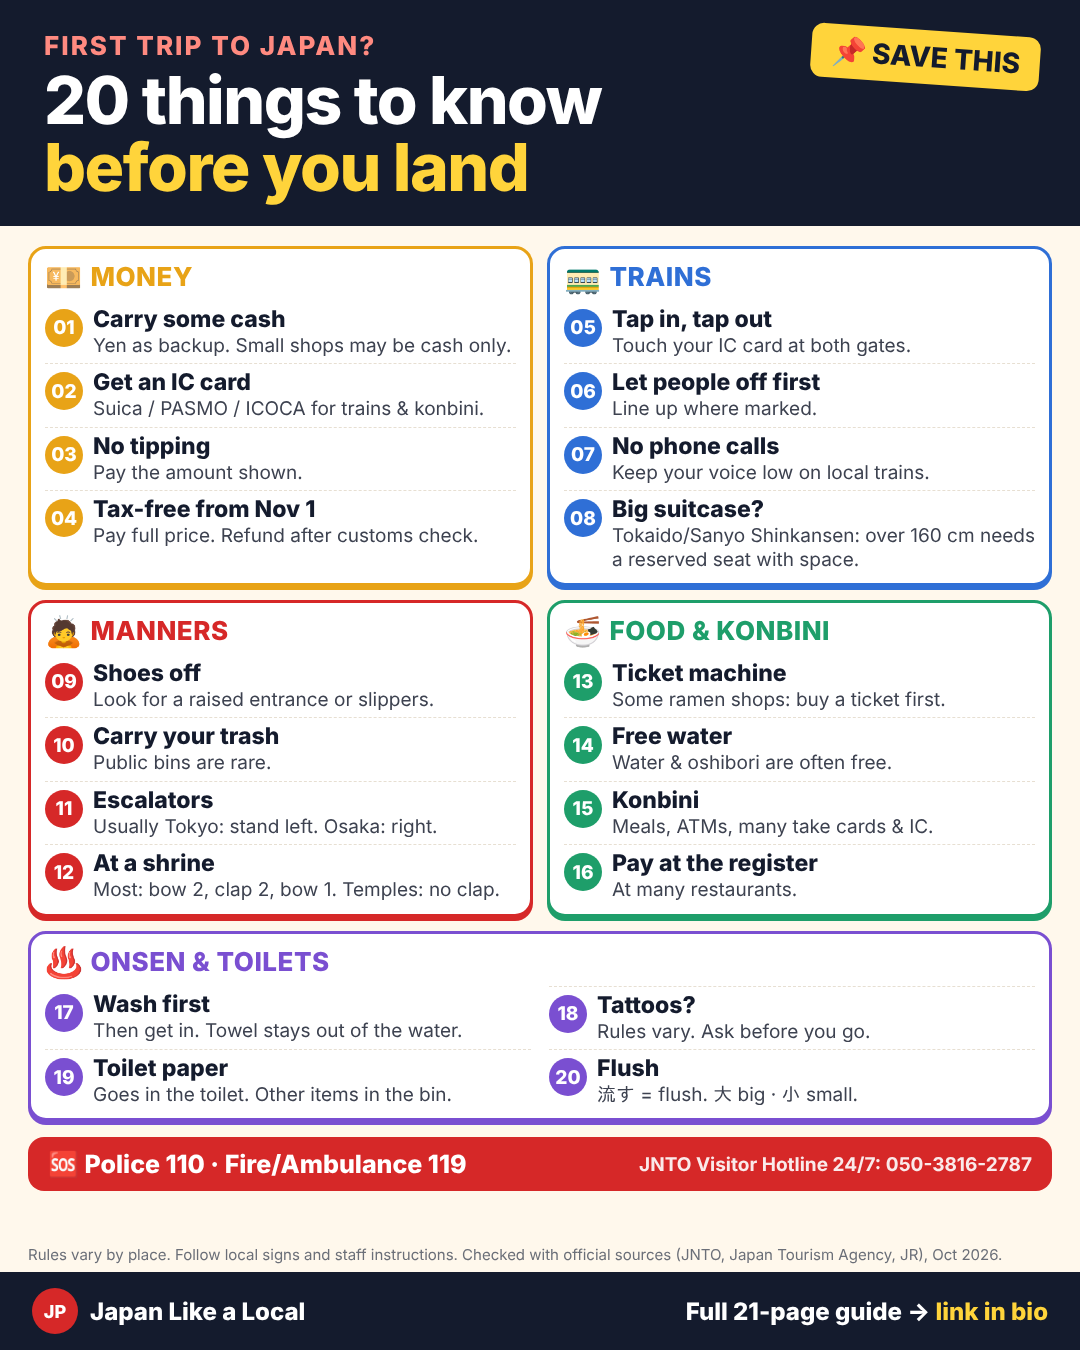
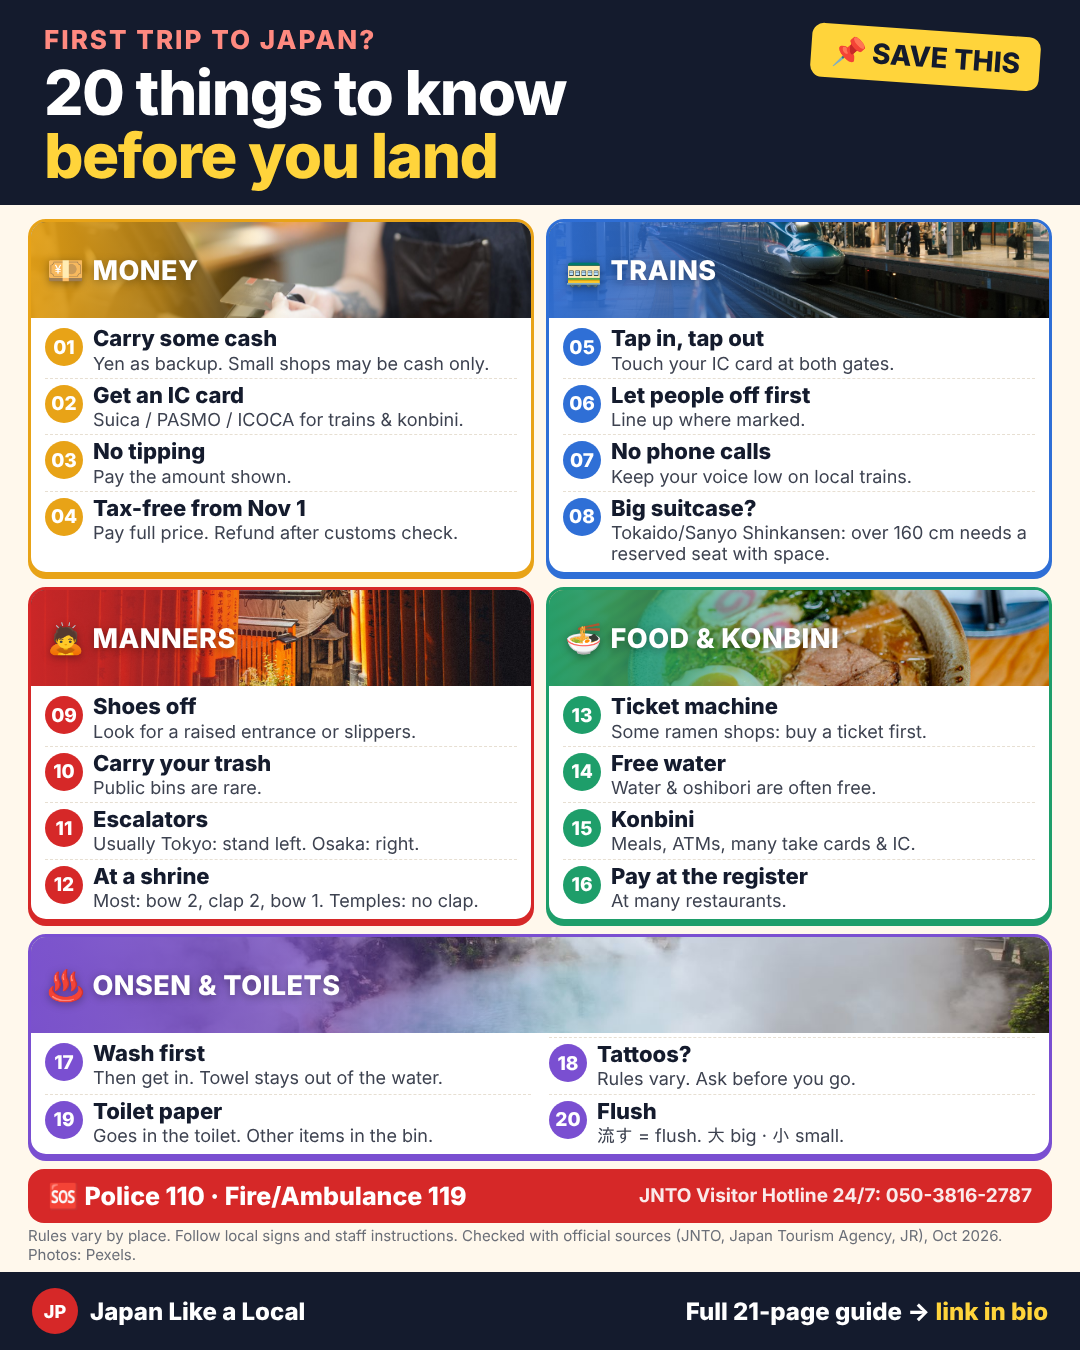
Cheat sheet: Pexels photo headers per section
Claude-Session: https://claude.ai/code/session_01TjagRrtcak9M1F67RG8mqZ

diff --git a/tools/build_cheatsheet.py b/tools/build_cheatsheet.py
@@ -4,40 +4,41 @@ from playwright.sync_api import sync_playwright
 R=pathlib.Path(__file__).resolve().parent.parent
 F=(R/'tools/fonts').as_uri()
 SECTIONS=[
- ('MONEY','#E8A317','💴',[('Carry some cash','Yen as backup. Small shops may be cash only.'),('Get an IC card','Suica / PASMO / ICOCA for trains & konbini.'),('No tipping','Pay the amount shown.'),('Tax-free from Nov 1','Pay full price. Refund after customs check.')]),
- ('TRAINS','#2F6FD6','🚃',[('Tap in, tap out','Touch your IC card at both gates.'),('Let people off first','Line up where marked.'),('No phone calls','Keep your voice low on local trains.'),('Big suitcase?','Tokaido/Sanyo Shinkansen: over 160 cm needs a reserved seat with space.')]),
- ('MANNERS','#D62828','🙇',[('Shoes off','Look for a raised entrance or slippers.'),('Carry your trash','Public bins are rare.'),('Escalators','Usually Tokyo: stand left. Osaka: right.'),('At a shrine','Most: bow 2, clap 2, bow 1. Temples: no clap.')]),
- ('FOOD & KONBINI','#1E9E6A','🍜',[('Ticket machine','Some ramen shops: buy a ticket first.'),('Free water','Water & oshibori are often free.'),('Konbini','Meals, ATMs, many take cards & IC.'),('Pay at the register','At many restaurants.')]),
- ('ONSEN & TOILETS','#7A4FD1','♨',[('Wash first','Then get in. Towel stays out of the water.'),('Tattoos?','Rules vary. Ask before you go.'),('Toilet paper','Goes in the toilet. Other items in the bin.'),('Flush','流す = flush. 大 big · 小 small.')]),
+ ('MONEY','#E8A317','💴','px-3907161.jpg','center 40%',[('Carry some cash','Yen as backup. Small shops may be cash only.'),('Get an IC card','Suica / PASMO / ICOCA for trains & konbini.'),('No tipping','Pay the amount shown.'),('Tax-free from Nov 1','Pay full price. Refund after customs check.')]),
+ ('TRAINS','#2F6FD6','🚃','px-29058311-shinkansen.jpg','30% 60%',[('Tap in, tap out','Touch your IC card at both gates.'),('Let people off first','Line up where marked.'),('No phone calls','Keep your voice low on local trains.'),('Big suitcase?','Tokaido/Sanyo Shinkansen: over 160 cm needs a reserved seat with space.')]),
+ ('MANNERS','#D62828','🙇','px-31193736.jpg','center 55%',[('Shoes off','Look for a raised entrance or slippers.'),('Carry your trash','Public bins are rare.'),('Escalators','Usually Tokyo: stand left. Osaka: right.'),('At a shrine','Most: bow 2, clap 2, bow 1. Temples: no clap.')]),
+ ('FOOD & KONBINI','#1E9E6A','🍜','px-12984979.jpg','center 45%',[('Ticket machine','Some ramen shops: buy a ticket first.'),('Free water','Water & oshibori are often free.'),('Konbini','Meals, ATMs, many take cards & IC.'),('Pay at the register','At many restaurants.')]),
+ ('ONSEN & TOILETS','#7A4FD1','♨','px-8606805.jpg','center 55%',[('Wash first','Then get in. Towel stays out of the water.'),('Tattoos?','Rules vary. Ask before you go.'),('Toilet paper','Goes in the toilet. Other items in the bin.'),('Flush','流す = flush. 大 big · 小 small.')]),
 ]
 def card(n,t,d,c): return f'<div class=it><b style="background:{c}">{n:02d}</b><div><h3>{t}</h3><p>{d}</p></div></div>'
 blocks='';n=1
-for name,col,emo,items in SECTIONS:
+for name,col,emo,img,pos,items in SECTIONS:
     cards=''.join(card(n+i,t,d,col) for i,(t,d) in enumerate(items)); n+=len(items)
-    blocks+=f'<section style="--c:{col}"><h2><span>{emo}</span>{name}</h2>{cards}</section>'
+    url=(R/'assets/covers'/img).as_uri()
+    blocks+=f'<section style="--c:{col}"><h2 style="background-image:linear-gradient(90deg,{col}f0 0%,{col}b0 26%,rgba(0,0,0,0) 52%),url({url});background-position:center,{pos};background-size:cover"><span>{emo}</span>{name}</h2>{cards}</section>'
 html=f'''<!doctype html><html><head><meta charset=utf-8><style>
 @font-face{{font-family:I;src:url({F}/Inter-ExtraBold.ttf);font-weight:800}}
 @font-face{{font-family:I;src:url({F}/Inter-Bold.ttf);font-weight:700}}
 @font-face{{font-family:I;src:url({F}/Inter-Regular.ttf);font-weight:400}}
 *{{margin:0;padding:0;box-sizing:border-box}}
 body{{width:1080px;height:1350px;background:#FFF8EC;font-family:I,'Noto Color Emoji','IPAGothic',sans-serif;color:#141B2D;position:relative;overflow:hidden}}
-.top{{background:#141B2D;color:#fff;padding:30px 44px 24px;position:relative}}
+.top{{background:#141B2D;color:#fff;padding:24px 44px 18px;position:relative}}
 .save{{position:absolute;right:40px;top:30px;background:#FFD43B;color:#141B2D;font-weight:800;font-size:28px;padding:10px 20px;border-radius:12px;transform:rotate(4deg)}}
 .k{{color:#FF8A80;font-weight:800;font-size:26px;letter-spacing:2px}}
-h1{{font-weight:800;font-size:66px;line-height:1.02;letter-spacing:-1.5px;margin-top:6px}}
+h1{{font-weight:800;font-size:62px;line-height:1.02;letter-spacing:-1.5px;margin-top:6px}}
 h1 em{{font-style:normal;color:#FFD43B}}
-.grid{{display:grid;grid-template-columns:1fr 1fr;gap:14px;padding:20px 28px 0}}
-section{{background:#fff;border-radius:18px;border:3px solid var(--c);padding:10px 14px 6px;box-shadow:0 4px 0 var(--c)}}
+.grid{{display:grid;grid-template-columns:1fr 1fr;gap:12px;padding:14px 28px 0}}
+section{{background:#fff;border-radius:18px;border:3px solid var(--c);padding:0 14px 4px;box-shadow:0 4px 0 var(--c);overflow:hidden}}
 section:last-child{{grid-column:1/3;display:grid;grid-template-columns:1fr 1fr;column-gap:18px}}
 section:last-child h2{{grid-column:1/3}}
-h2{{font-weight:800;font-size:26px;color:var(--c);display:flex;align-items:center;gap:8px;margin-bottom:6px;letter-spacing:.5px}}
+h2{{font-weight:800;font-size:27px;color:#fff;display:flex;align-items:center;gap:8px;margin:0 -14px 4px;padding:0 16px;height:96px;letter-spacing:.5px;text-shadow:0 2px 8px rgba(0,0,0,.35)}}
 h2 span{{font-size:30px}}
-.it{{display:flex;gap:10px;align-items:flex-start;padding:6px 0;border-top:1.5px dashed #E7DFD2}}
+.it{{display:flex;gap:10px;align-items:flex-start;padding:4px 0;border-top:1.5px dashed #E7DFD2}}
 section h2+.it{{border-top:none}}
 .it b{{flex:0 0 38px;height:38px;border-radius:50%;color:#fff;font-weight:800;font-size:19px;display:flex;align-items:center;justify-content:center;margin-top:2px}}
-h3{{font-weight:800;font-size:23px;line-height:1.1}}
-p{{font-weight:400;font-size:19px;line-height:1.22;color:#3D4250;margin-top:2px}}
-.sos{{margin:16px 28px 0;background:#D62828;color:#fff;border-radius:16px;padding:12px 20px;display:flex;justify-content:space-between;align-items:center;font-weight:800;font-size:25px}}
+h3{{font-weight:800;font-size:22px;line-height:1.1}}
+p{{font-weight:400;font-size:18px;line-height:1.18;color:#3D4250;margin-top:2px}}
+.sos{{margin:12px 28px 0;background:#D62828;color:#fff;border-radius:16px;padding:12px 20px;display:flex;justify-content:space-between;align-items:center;font-weight:800;font-size:25px}}
 .sos small{{font-weight:700;font-size:19px;opacity:.9}}
 .foot{{position:absolute;left:0;right:0;bottom:0;height:78px;background:#141B2D;color:#fff;display:flex;align-items:center;justify-content:space-between;padding:0 32px;font-weight:800;font-size:24px}}
 .foot i{{font-style:normal;color:#FFD43B}}
@@ -48,7 +49,7 @@ p{{font-weight:400;font-size:19px;line-height:1.22;color:#3D4250;margin-top:2px}
 <div class=top><div class=save>📌 SAVE THIS</div><div class=k>FIRST TRIP TO JAPAN?</div><h1>20 things to know<br><em>before you land</em></h1></div>
 <div class=grid>{blocks}</div>
 <div class=sos><span>🆘 Police 110 · Fire/Ambulance 119</span><small>JNTO Visitor Hotline 24/7: 050-3816-2787</small></div>
-<div class=note>Rules vary by place. Follow local signs and staff instructions. Checked with official sources (JNTO, Japan Tourism Agency, JR), Oct 2026.</div>
+<div class=note>Rules vary by place. Follow local signs and staff instructions. Checked with official sources (JNTO, Japan Tourism Agency, JR), Oct 2026. Photos: Pexels.</div>
 <div class=foot><div class=jp><b>JP</b>Japan Like a Local</div><div>Full 21-page guide → <i>link in bio</i></div></div>
 </body></html>'''
 p=R/'tools/_cs.html'; p.write_text(html)
